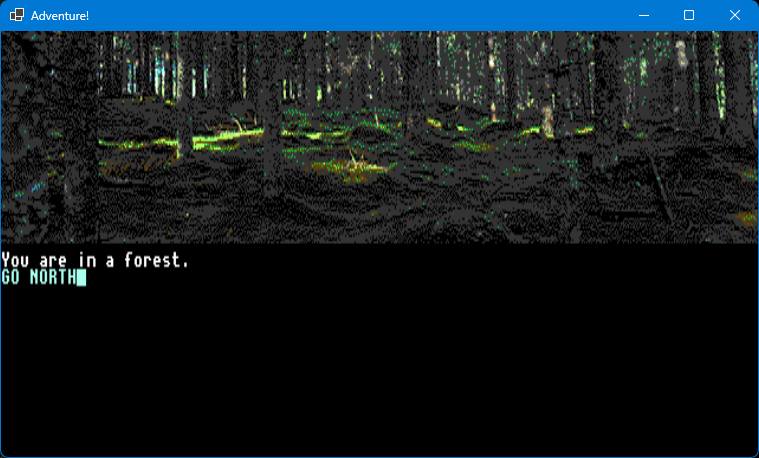
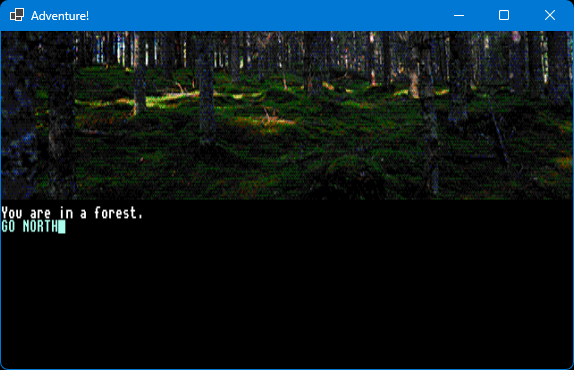
Extended the palette to 32 colors and adjusted the green colors in the standard palette.

Changed region(s): [[0.0, 0.0, 1.0, 0.6541], [0.0, 0.9811, 1.0, 1.0], [0.9774, 0.0, 1.0, 0.0297]]

diff --git a/TerminalMatrix/TerminalMatrixControl.cs b/TerminalMatrix/TerminalMatrixControl.cs
@@ -15,9 +15,9 @@ public partial class TerminalMatrixControl : UserControl
     public event TypedLineDelegate? TypedLine;
     public event InputCompletedDelegate? InputCompleted;
 
-    private readonly int[,] _characterColorMap;
-    private readonly int[,] _characterMap;
-    private readonly int[,] _pixelMap;
+    private readonly byte[,] _characterColorMap;
+    private readonly byte[,] _characterMap;
+    private readonly byte[,] _pixelMap;
     private readonly int[] _bitmap;
     private bool _cursorVisibleBlink;
     private readonly System.Windows.Forms.Timer _timer = new();
@@ -30,7 +30,7 @@ public partial class TerminalMatrixControl : UserControl
     private LayerOrder _layerOrder;
     public Bitmap? Bitmap { get; private set; }
     public Coordinate CursorPosition { get; }
-    public int CurrentCursorColor { get; set; }
+    public byte CurrentCursorColor { get; set; }
     public ProgramLineDictionary ProgramLines { get; } = new();
 
     public TerminalMatrixControl()
@@ -126,16 +126,16 @@ public partial class TerminalMatrixControl : UserControl
 
     public void HorizontalLine(int y, ColorName color)
     {
-        var c = (int)color;
+        var c = (byte)color;
 
         for (var x = 0; x < PixelMatrixDefinition.Width; x++)
             _pixelMap[x, y] = c;
     }
 
-    public int[,] LoadPictureFromGif(string filename)
+    public byte[,] LoadPictureFromGif(string filename)
     {
         using var gif = new Bitmap(filename);
-        var result = new int[gif.Width, gif.Height];
+        var result = new byte[gif.Width, gif.Height];
 
         for (var y = 0; y < gif.Height; y++)
             for (var x = 0; x < gif.Width; x++)
@@ -146,10 +146,10 @@ public partial class TerminalMatrixControl : UserControl
 
     public void SetPixel(int x, int y, ColorName color)
     {
-        _pixelMap[x, y] = (int)color;
+        _pixelMap[x, y] = (byte)color;
     }
 
-    public void SetPixels(int x, int y, int[,] colors)
+    public void SetPixels(int x, int y, byte[,] colors)
     {
         var targetX = x;
         var targetY = y;
@@ -171,7 +171,7 @@ public partial class TerminalMatrixControl : UserControl
 
     public void HorizontalLine(int x1, int y, int x2, ColorName color)
     {
-        var c = (int)color;
+        var c = (byte)color;
 
         for (var x = x1; x <= x2; x++)
             _pixelMap[x, y] = c;
@@ -179,7 +179,7 @@ public partial class TerminalMatrixControl : UserControl
 
     public void VerticalLine(int x, ColorName color)
     {
-        var c = (int)color;
+        var c = (byte)color;
 
         for (var y = 0; y < PixelMatrixDefinition.Height; y++)
             _pixelMap[x, y] = c;
@@ -187,7 +187,7 @@ public partial class TerminalMatrixControl : UserControl
 
     public void VerticalLine(int x, int y1, int y2, ColorName color)
     {
-        var c = (int)color;
+        var c = (byte)color;
 
         for (var y = y1; y <= y2; y++)
             _pixelMap[x, y] = c;
@@ -195,7 +195,7 @@ public partial class TerminalMatrixControl : UserControl
 
     public void Box(ColorName color, int x1, int y1, int x2, int y2)
     {
-        var c = (int)color;
+        var c = (byte)color;
 
         for (var x = x1; x <= x2; x++)
         {
@@ -212,7 +212,7 @@ public partial class TerminalMatrixControl : UserControl
 
     public void PrintAt(ColorName color, int x, int y, string text)
     {
-        var c = (int)color;
+        var c = (byte)color;
 
         for (var i = 0; i < text.Length; i++)
         {
@@ -342,7 +342,7 @@ public partial class TerminalMatrixControl : UserControl
 
     private void TypeCharacter(char c)
     {
-        _characterMap[CursorPosition.X, CursorPosition.Y] = c;
+        _characterMap[CursorPosition.X, CursorPosition.Y] = (byte)c;
         _characterColorMap[CursorPosition.X, CursorPosition.Y] = CurrentCursorColor;
 
         if (CursorPosition.X < CharacterMatrixDefinition.Width - 1)
@@ -500,7 +500,7 @@ public partial class TerminalMatrixControl : UserControl
             TypedLine?.Invoke(this, eventArgs!);
     }
 
-    private void DoInsert(int[,] map, int empty)
+    private void DoInsert(byte[,] map, byte empty)
     {
         if (CursorPosition.X >= CharacterMatrixDefinition.Width - 1)
         {
@@ -514,7 +514,7 @@ public partial class TerminalMatrixControl : UserControl
         map[CursorPosition.X, CursorPosition.Y] = empty;
     }
 
-    private void DoDelete(int[,] map, int empty)
+    private void DoDelete(byte[,] map, byte empty)
     {
         if (CursorPosition.X >= CharacterMatrixDefinition.Width - 1)
         {
@@ -563,10 +563,10 @@ public partial class TerminalMatrixControl : UserControl
     private new void Scroll()
     {
         ScrollCharacterMap(_characterColorMap, 0);
-        ScrollCharacterMap(_characterMap, ' ');
+        ScrollCharacterMap(_characterMap, (byte)' ');
     }
 
-    private void ScrollCharacterMap(int[,] characterMap, int blank)
+    private void ScrollCharacterMap(byte[,] characterMap, byte blank)
     {
         for (var y = 1; y < CharacterMatrixDefinition.Height; y++)
             for (var x = 0; x < CharacterMatrixDefinition.Width; x++)
@@ -593,7 +593,7 @@ public partial class TerminalMatrixControl : UserControl
         Invalidate();
     }
 
-    private void ClearLine(int[,] map, int y, int clear)
+    private void ClearLine(byte[,] map, int y, byte clear)
     {
         for (var x = 0; x < CharacterMatrixDefinition.Width; x++)
             map[x, y] = clear;
@@ -613,7 +613,7 @@ public partial class TerminalMatrixControl : UserControl
         {
             if (x >= CharacterMatrixDefinition.Width)
                 break;
-            _characterMap[x, y] = text[x];
+            _characterMap[x, y] = (byte)text[x];
         }
 
         UpdateBitmap();
@@ -629,7 +629,7 @@ public partial class TerminalMatrixControl : UserControl
             if (x >= CharacterMatrixDefinition.Width)
                 break;
 
-            _characterMap[x, y] = text[x];
+            _characterMap[x, y] = (byte)text[x];
         }
 
         CursorPosition.X = 0;

diff --git a/TerminalMatrix/TerminalColor/Palette.cs b/TerminalMatrix/TerminalColor/Palette.cs
@@ -4,7 +4,7 @@ namespace TerminalMatrix.TerminalColor;
 
 public class Palette : IEnumerable<Color>
 {
-    private Color[] Colors { get; } = new Color[16];
+    private Color[] Colors { get; } = new Color[32];
 
     public Palette()
     {
@@ -13,7 +13,7 @@ public class Palette : IEnumerable<Color>
         Colors[2] = Color.FromArgb(136, 0, 0);
         Colors[3] = Color.FromArgb(170, 255, 238);
         Colors[4] = Color.FromArgb(204, 68, 204);
-        Colors[5] = Color.FromArgb(0, 204, 85);
+        Colors[5] = Color.FromArgb(0, 184, 5);
         Colors[6] = Color.FromArgb(0, 0, 170);
         Colors[7] = Color.FromArgb(238, 238, 119);
         Colors[8] = Color.FromArgb(221, 136, 85);
@@ -21,9 +21,26 @@ public class Palette : IEnumerable<Color>
         Colors[10] = Color.FromArgb(255, 119, 119);
         Colors[11] = Color.FromArgb(51, 51, 51);
         Colors[12] = Color.FromArgb(119, 119, 119);
-        Colors[13] = Color.FromArgb(170, 255, 102);
+        Colors[13] = Color.FromArgb(50, 215, 42);
         Colors[14] = Color.FromArgb(0, 136, 255);
         Colors[15] = Color.FromArgb(187, 187, 187);
+        // Extended
+        Colors[16] = Color.FromArgb(80, 165, 148);
+        Colors[17] = Color.FromArgb(215, 215, 215);
+        Colors[18] = Color.FromArgb(96, 0, 0);
+        Colors[19] = Color.FromArgb(130, 215, 198);
+        Colors[20] = Color.FromArgb(164, 28, 164);
+        Colors[21] = Color.FromArgb(0, 144, 0);
+        Colors[22] = Color.FromArgb(0, 0, 130);
+        Colors[23] = Color.FromArgb(198, 198, 79);
+        Colors[24] = Color.FromArgb(181, 96, 45);
+        Colors[25] = Color.FromArgb(62, 28, 0);
+        Colors[26] = Color.FromArgb(232, 0, 0);
+        Colors[27] = Color.FromArgb(21, 21, 21);
+        Colors[28] = Color.FromArgb(79, 79, 79);
+        Colors[29] = Color.FromArgb(0, 75, 0);
+        Colors[30] = Color.FromArgb(0, 96, 215);
+        Colors[31] = Color.FromArgb(37, 57, 40);
     }
 
     public Color GetColor(int index) =>
@@ -38,12 +55,12 @@ public class Palette : IEnumerable<Color>
     IEnumerator IEnumerable.GetEnumerator() =>
         GetEnumerator();
 
-    public int SearchColor(Color c)
+    public byte SearchColor(Color c)
     {
         for (var i = 0; i < Colors.Length; i++)
         {
             if (ColorsAreClose(i, c))
-                return i;
+                return (byte)i;
         }
 
         throw new InvalidOperationException("GIF contains colors outside the allowed palette.");
@@ -52,7 +69,7 @@ public class Palette : IEnumerable<Color>
     private bool ColorsAreClose(int targetColorIndex, Color sampleColor)
     {
         var targetColor = Colors[targetColorIndex];
-        const int threshold = 5;
+        const int threshold = 3;
 
         return Math.Max(targetColor.R, sampleColor.R) - Math.Min(targetColor.R, sampleColor.R) < threshold
                && Math.Max(targetColor.G, sampleColor.G) - Math.Min(targetColor.G, sampleColor.G) < threshold

diff --git a/TerminalMatrix/TerminalCodePage.cs b/TerminalMatrix/TerminalCodePage.cs
@@ -3,17 +3,17 @@
 public class TerminalCodePage
 {
     public const string Characters = "ABCDEFGHIJKLMNOPQRSTUVWXYZabcdefghijklmnopqrstuvwxyz0123456789 ,.;:!?\"@#$%&/\\*-+'()";
-    public Dictionary<int, char> Chr { get; }
-    public Dictionary<char, int> Asc { get; }
+    public Dictionary<byte, char> Chr { get; }
+    public Dictionary<char, byte> Asc { get; }
 
     public TerminalCodePage()
     {
-        Chr = new Dictionary<int, char>();
+        Chr = new Dictionary<byte, char>();
 
         foreach (var character in Characters)
-            Chr.Add(character, character);
+            Chr.Add((byte)character, character);
 
-        Asc = new Dictionary<char, int>();
+        Asc = new Dictionary<char, byte>();
 
         foreach (var c in Chr)
             Asc.Add(c.Value, c.Key);

diff --git a/TerminalMatrix/TerminalColor/ColorName.cs b/TerminalMatrix/TerminalColor/ColorName.cs
@@ -17,5 +17,21 @@ public enum ColorName
     Grey,
     LightGreen,
     LightBlue,
-    LightGrey
+    LightGrey,
+    XtendedVeryDarkCyan,
+    XtendedVeryLightGrey,
+    XtendedDarkRed,
+    XtendedDarkCyan,
+    XtendedDarkViolet,
+    XtendedDarkGreen,
+    XtendedDarkBlue,
+    XtendedDarkYellow,
+    XtendedDarkOrange,
+    XtendedDarkBrown,
+    XtendedClearRed,
+    XtendedVeryDarkGrey,
+    XtendedMiddleGrey,
+    XtendedVeryDarkGreen,
+    XtendedMiddleBlue,
+    XtendedDarkPaleGreen
 }

diff --git a/TerminalMatrix/Definitions/PixelMatrixDefinition.cs b/TerminalMatrix/Definitions/PixelMatrixDefinition.cs
@@ -5,8 +5,8 @@ public static class PixelMatrixDefinition
     public const int Width = 640;
     public const int Height = 200;
 
-    public static int[,] Create() =>
-        new int[Width, Height];
+    public static byte[,] Create() =>
+        new byte[Width, Height];
 
     public static int[] CreateBitmap() =>
         new int[Width * Height];

diff --git a/TerminalMatrix/Definitions/CharacterMatrixDefinition.cs b/TerminalMatrix/Definitions/CharacterMatrixDefinition.cs
@@ -12,6 +12,6 @@ public static class CharacterMatrixDefinition
         TextRenderLimit = 0;
     }
 
-    public static int[,] Create() =>
-        new int[Width, Height];
+    public static byte[,] Create() =>
+        new byte[Width, Height];
 }

diff --git a/README.md b/README.md
@@ -11,10 +11,10 @@ lines of text on the bottom of the screen.
 
 ## Bitmap images
 
-To produce a bitmap image, create a picture (preferably a 16 color GIF file) using
+To produce a bitmap image, create a picture (preferably a 16 or 32 color GIF file) using
 the palette described in the
-[ah-c64-palette.act](https://github.com/Anders-H/TerminalPixelMatrixLibrary/blob/main/ah-c64-palette.act) Photoshop file
-or in the source code [here](https://github.com/Anders-H/TerminalPixelMatrixLibrary/blob/main/TerminalMatrix/TerminalColor/Palette.cs).
+[ah-c64-palette.act](https://github.com/Anders-H/TerminalPixelMatrixLibrary/blob/main/ah-c64-palette.act) Photoshop file (or the [extended 32 color file]((https://github.com/Anders-H/TerminalPixelMatrixLibrary/blob/main/ah-c64-palette-extended.act))).
+The color palette is also described in the source code, [here](https://github.com/Anders-H/TerminalPixelMatrixLibrary/blob/main/TerminalMatrix/TerminalColor/Palette.cs).
 Remember that pixels are more high then wide, and that the interface emulator only can display 640 * 200 pixels at one time.
 
 To display an image, load it as a byte array using the `LoadPictureFromGif` function and draw it using the `SetPixels` function.
